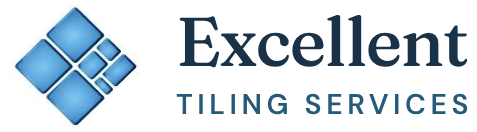
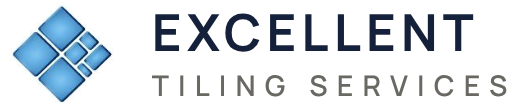
Email signature: use the live website's colours and fonts (ink navy, brass, Manrope, Instrument Serif)
Claude-Session: https://claude.ai/code/session_01GgaKx3bXDJYD5g8dhmqHc3

diff --git a/marketing/email-signature/signature.html b/marketing/email-signature/signature.html
@@ -1,27 +1,31 @@
 <!-- ETS email signature. Tables + inline styles only, so Gmail / Outlook / Apple Mail keep it intact.
-     Colours, corners and fonts follow the website (theme/assets/ets-brand.css): navy #193247, accent #255b78,
-     paper #f6f5f1, line #d8dcdd, 2px corners, Fraunces headings / DM Sans text (Georgia / Arial where mail apps lack them).
+     Colours and fonts are the LIVE website's (read from excellenttilingservices.com, 12 Nov 2026):
+     ink #15213A, dark navy #0F1A2C, brass #9C7744, muted #6A6862, 10px / 6px corners,
+     Manrope text, Instrument Serif headings. Logo and name are images so the fonts always show.
      Open this file in a browser, select all, copy, paste into your mail app's signature box. -->
-<table cellpadding="0" cellspacing="0" border="0" style="font-family:'DM Sans',Arial,Helvetica,sans-serif;color:#193247;border:1px solid #d8dcdd;border-radius:2px;background:#ffffff;">
+<table cellpadding="0" cellspacing="0" border="0" style="font-family:Manrope,'Segoe UI',Arial,Helvetica,sans-serif;color:#15213A;border:1px solid #DADCE0;border-radius:10px;background:#ffffff;">
   <tr>
     <td style="padding:16px 0 16px 16px;vertical-align:middle;">
-      <table cellpadding="0" cellspacing="0" border="0" style="border:1px solid #d8dcdd;border-radius:2px;background:#f6f5f1;">
-        <tr><td style="padding:9px 9px 5px;"><a href="https://excellenttilingservices.com"><img src="img/globe.png" width="18" height="18" alt="Website" style="display:block;border:0;"></a></td></tr>
-        <tr><td style="padding:5px 9px;"><a href="https://www.instagram.com/excellent_tiling_services/"><img src="img/instagram.png" width="18" height="18" alt="Instagram" style="display:block;border:0;"></a></td></tr>
-        <tr><td style="padding:5px 9px;"><a href="https://www.facebook.com/share/1943ueL61k/"><img src="img/facebook.png" width="18" height="18" alt="Facebook" style="display:block;border:0;"></a></td></tr>
-        <tr><td style="padding:5px 9px 9px;"><a href="mailto:yamen@excellenttilingservices.com"><img src="img/mail.png" width="18" height="18" alt="Email" style="display:block;border:0;"></a></td></tr>
+      <table cellpadding="0" cellspacing="0" border="0" bgcolor="#0F1A2C" style="border-radius:6px;background:#0F1A2C;">
+        <tr><td style="padding:10px 10px 6px;"><a href="https://excellenttilingservices.com"><img src="img/globe-light.png" width="18" height="18" alt="Website" style="display:block;border:0;"></a></td></tr>
+        <tr><td style="padding:6px 10px;"><a href="https://www.instagram.com/excellent_tiling_services/"><img src="img/instagram-light.png" width="18" height="18" alt="Instagram" style="display:block;border:0;"></a></td></tr>
+        <tr><td style="padding:6px 10px;"><a href="https://www.facebook.com/share/1943ueL61k/"><img src="img/facebook-light.png" width="18" height="18" alt="Facebook" style="display:block;border:0;"></a></td></tr>
+        <tr><td style="padding:6px 10px 10px;"><a href="mailto:yamen@excellenttilingservices.com"><img src="img/mail-light.png" width="18" height="18" alt="Email" style="display:block;border:0;"></a></td></tr>
       </table>
     </td>
     <td style="padding:16px 20px;vertical-align:middle;">
-      <a href="https://excellenttilingservices.com"><img src="img/lockup.png" width="159" height="44" alt="Excellent Tiling Services" style="display:block;border:0;margin-bottom:12px;"></a>
-      <div style="font-family:Fraunces,Georgia,'Times New Roman',serif;font-size:20px;font-weight:500;line-height:24px;letter-spacing:-0.3px;color:#193247;">Yamen</div>
-      <div style="font-size:11px;font-weight:bold;line-height:18px;letter-spacing:1.4px;text-transform:uppercase;color:#255b78;">CEO</div>
-      <table cellpadding="0" cellspacing="0" border="0" style="margin-top:8px;">
-        <tr><td style="padding:2px 7px 2px 0;vertical-align:middle;"><a href="tel:+61450960543"><img src="img/phone.png" width="13" height="13" alt="Phone" style="display:block;border:0;"></a></td><td style="font-size:12px;line-height:18px;vertical-align:middle;"><a href="tel:+61450960543" style="color:#193247;text-decoration:none;">0450 960 543</a></td></tr>
-        <tr><td style="padding:2px 7px 2px 0;vertical-align:middle;"><a href="mailto:yamen@excellenttilingservices.com"><img src="img/mail.png" width="13" height="13" alt="Email" style="display:block;border:0;"></a></td><td style="font-size:12px;line-height:18px;vertical-align:middle;"><a href="mailto:yamen@excellenttilingservices.com" style="color:#193247;text-decoration:none;">yamen@excellenttilingservices.com</a></td></tr>
-        <tr><td style="padding:2px 7px 2px 0;vertical-align:middle;"><a href="mailto:contactus@excellenttilingservices.com"><img src="img/mail.png" width="13" height="13" alt="Email" style="display:block;border:0;"></a></td><td style="font-size:12px;line-height:18px;vertical-align:middle;"><a href="mailto:contactus@excellenttilingservices.com" style="color:#193247;text-decoration:none;">contactus@excellenttilingservices.com</a></td></tr>
-        <tr><td style="padding:2px 7px 2px 0;vertical-align:middle;"><a href="https://excellenttilingservices.com"><img src="img/globe.png" width="13" height="13" alt="Website" style="display:block;border:0;"></a></td><td style="font-size:12px;line-height:18px;vertical-align:middle;"><a href="https://excellenttilingservices.com" style="color:#193247;text-decoration:none;">excellenttilingservices.com</a></td></tr>
-        <tr><td style="padding:2px 7px 2px 0;vertical-align:middle;"><a href="https://www.google.com/maps/search/?api=1&amp;query=17A+Olga+Road+Maddington+WA+6109"><img src="img/pin.png" width="13" height="13" alt="Address" style="display:block;border:0;"></a></td><td style="font-size:12px;line-height:18px;vertical-align:middle;"><a href="https://www.google.com/maps/search/?api=1&amp;query=17A+Olga+Road+Maddington+WA+6109" style="color:#5d686f;text-decoration:none;">17A Olga Road, Maddington WA 6109</a></td></tr>
+      <a href="https://excellenttilingservices.com"><img src="img/lockup.png" width="173" height="36" alt="Excellent Tiling Services" style="display:block;border:0;margin-bottom:12px;"></a>
+      <img src="img/name.png" width="70" height="35" alt="Yamen" style="display:block;border:0;font-family:Georgia,serif;font-size:26px;color:#15213A;">
+      <table cellpadding="0" cellspacing="0" border="0" style="margin-top:2px;"><tr>
+        <td style="vertical-align:middle;padding-right:8px;"><div style="width:22px;height:1px;line-height:1px;font-size:1px;background:#9C7744;">&nbsp;</div></td>
+        <td style="font-size:11px;font-weight:bold;line-height:16px;letter-spacing:2px;text-transform:uppercase;color:#9C7744;vertical-align:middle;">CEO</td>
+      </tr></table>
+      <table cellpadding="0" cellspacing="0" border="0" style="margin-top:9px;">
+        <tr><td style="padding:2px 8px 2px 0;vertical-align:middle;"><a href="tel:+61450960543"><img src="img/phone-brass.png" width="13" height="13" alt="Phone" style="display:block;border:0;"></a></td><td style="font-size:12px;line-height:18px;vertical-align:middle;"><a href="tel:+61450960543" style="color:#15213A;text-decoration:none;">0450 960 543</a></td></tr>
+        <tr><td style="padding:2px 8px 2px 0;vertical-align:middle;"><a href="mailto:yamen@excellenttilingservices.com"><img src="img/mail-brass.png" width="13" height="13" alt="Email" style="display:block;border:0;"></a></td><td style="font-size:12px;line-height:18px;vertical-align:middle;"><a href="mailto:yamen@excellenttilingservices.com" style="color:#15213A;text-decoration:none;">yamen@excellenttilingservices.com</a></td></tr>
+        <tr><td style="padding:2px 8px 2px 0;vertical-align:middle;"><a href="mailto:contactus@excellenttilingservices.com"><img src="img/mail-brass.png" width="13" height="13" alt="Email" style="display:block;border:0;"></a></td><td style="font-size:12px;line-height:18px;vertical-align:middle;"><a href="mailto:contactus@excellenttilingservices.com" style="color:#15213A;text-decoration:none;">contactus@excellenttilingservices.com</a></td></tr>
+        <tr><td style="padding:2px 8px 2px 0;vertical-align:middle;"><a href="https://excellenttilingservices.com"><img src="img/globe-brass.png" width="13" height="13" alt="Website" style="display:block;border:0;"></a></td><td style="font-size:12px;line-height:18px;vertical-align:middle;"><a href="https://excellenttilingservices.com" style="color:#15213A;text-decoration:none;">excellenttilingservices.com</a></td></tr>
+        <tr><td style="padding:2px 8px 2px 0;vertical-align:middle;"><a href="https://www.google.com/maps/search/?api=1&amp;query=17A+Olga+Road+Maddington+WA+6109"><img src="img/pin-brass.png" width="13" height="13" alt="Address" style="display:block;border:0;"></a></td><td style="font-size:12px;line-height:18px;vertical-align:middle;"><a href="https://www.google.com/maps/search/?api=1&amp;query=17A+Olga+Road+Maddington+WA+6109" style="color:#6A6862;text-decoration:none;">17A Olga Road, Maddington WA 6109</a></td></tr>
       </table>
     </td>
     <td style="padding:16px 18px 16px 0;vertical-align:middle;">

diff --git a/marketing/email-signature/README.md b/marketing/email-signature/README.md
@@ -3,7 +3,11 @@
 `signature.html` is the owner's email signature (card with logo, contact details, social icons and a diagonal-sliced headshot).
 `preview.png` shows how it looks.
 
-- 2026-11-12: first draft, then restyled to the website look (colours, 2px corners, fonts from `theme/assets/ets-brand.css`), logo lockup of tile icon + company name, icon and link on every line, both emails (yamen@ and contactus@). Name set to Yamen; `img/photo.png` is still a grey placeholder.
+- 2026-11-12: first draft, then restyled to the LIVE website look: ink #15213A, dark navy #0F1A2C, brass #9C7744,
+  Manrope text, Instrument Serif name, header-style logo (tile icon + EXCELLENT / TILING SERVICES). Icon and link on
+  every line, both emails (yamen@ and contactus@). Name set to Yamen; `img/photo.png` is still a placeholder.
+- Note: the colours were read from the live site, not from `theme/assets/ets-brand.css` in this repo, which still has
+  the older palette (#193247, Fraunces / DM Sans). The repo theme copy needs a re-sync from Shopify.
 - To put in the real headshot: `python3 make_photo.py headshot.jpg img/photo.png`.
 - Still to do before it can be pasted into Gmail/Outlook: the images in `img/` must be hosted online
   (Shopify Files) and the `src` links in `signature.html` pointed at them. Mail apps drop images that only exist on a computer.
